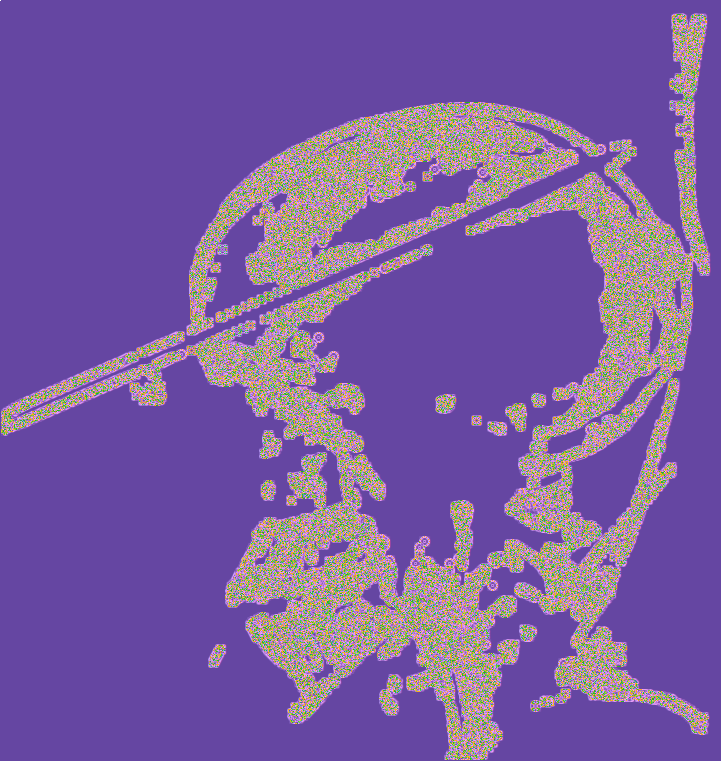
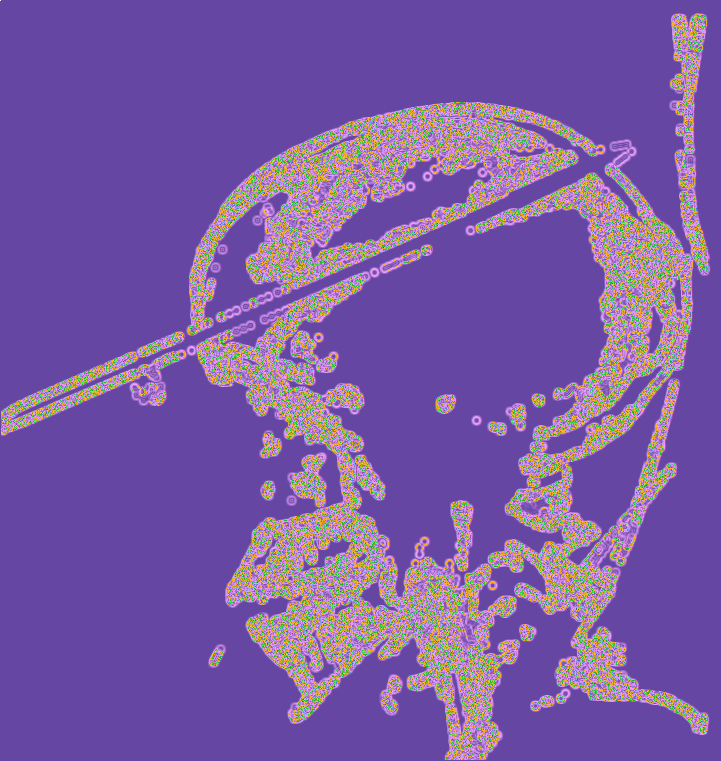
SGSGS

Changed region(s): [[0.0, 0.0, 1.0, 1.0], [0.5798, 0.5138, 0.6408, 0.544], [0.2746, 0.8463, 0.3356, 0.8765]]

diff --git a/1course.c b/1course.c
@@ -167,7 +167,7 @@ int main() {
 
     preparation(image, w, h);
     fSobel(image, image_0, w, h);
-    fSobel(image_0, image_2, w, h);
+    fGauss(image_0, image_2, w, h);
     fSobel(image_2, image_4, w, h);
     fGauss(image_4, image_5, w, h);
     fSobel(image_5, image_1, w, h);
